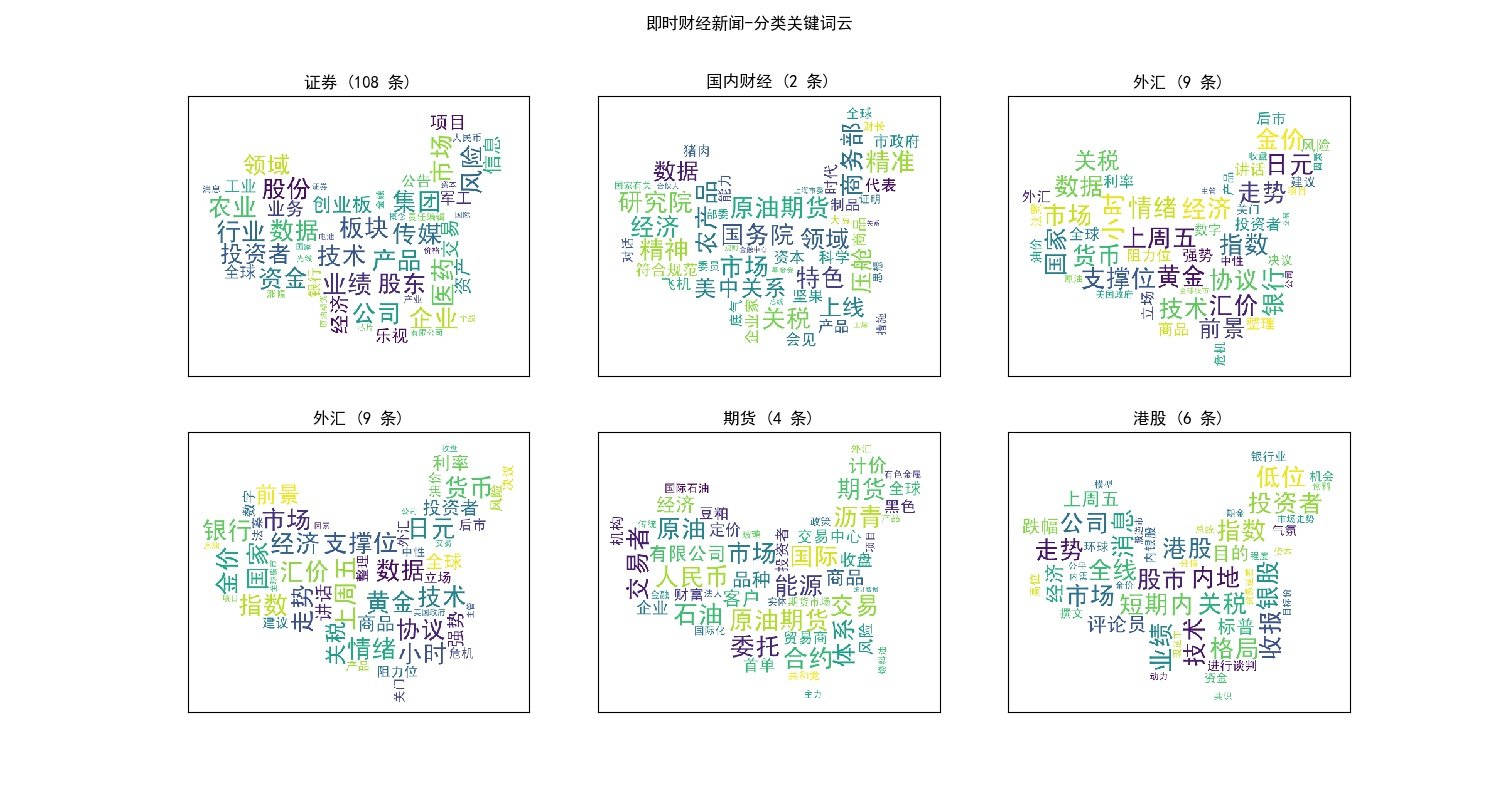
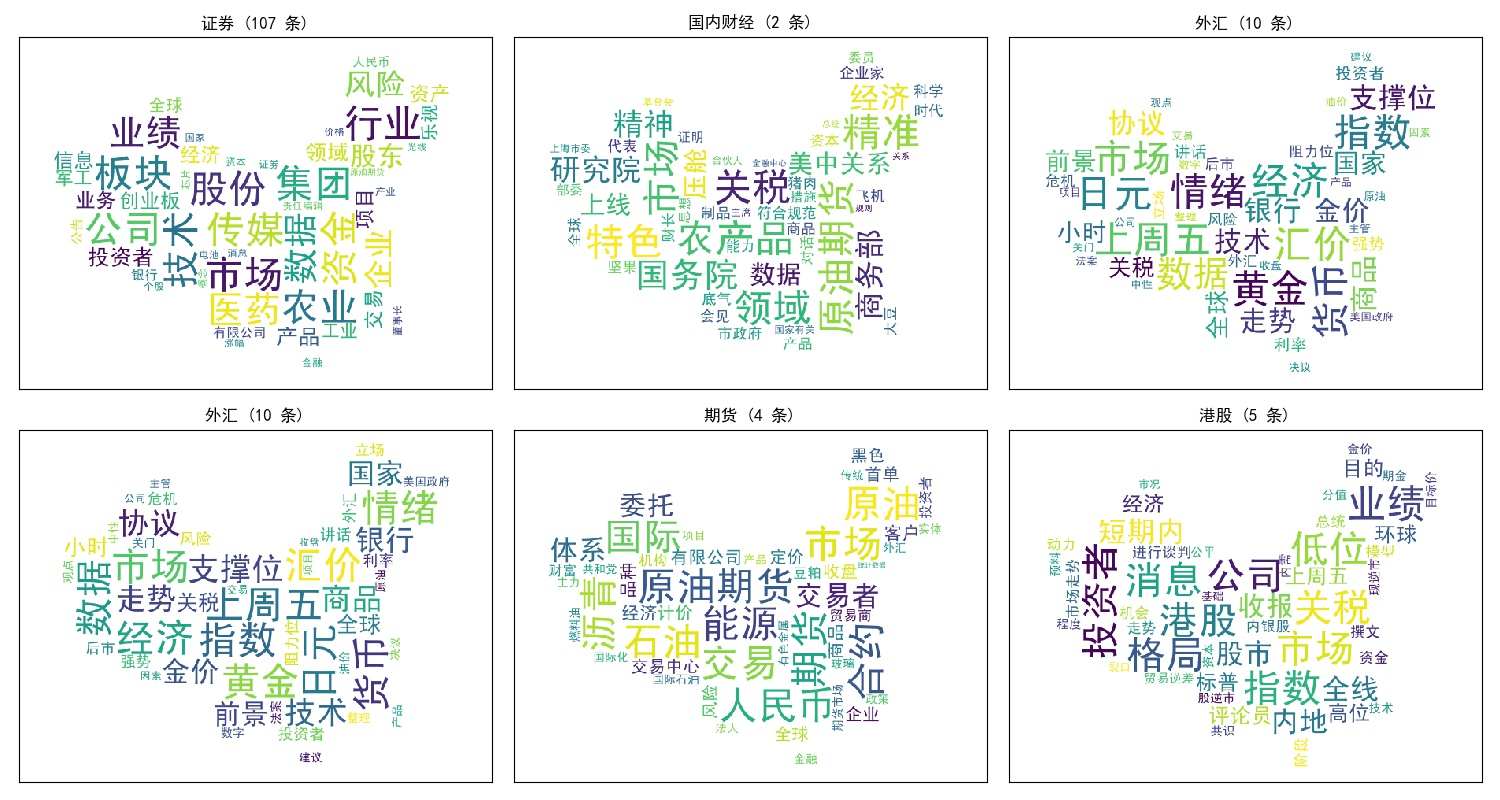
words2 add

diff --git a/words_cloud2.py b/words_cloud2.py
@@ -33,7 +33,7 @@ jieba.analyse.set_stop_words('./data/words_stop1.txt')
 
 # 多子图绘制
 fig, axes = plt.subplots(2, 3, figsize=(15, 8), sharex=True, sharey=True)
-fig.suptitle(u'即时财经新闻-分类关键词云')
+fig.suptitle(u'')
 # 设置标题(中文字体)
 plt.rcParams['font.sans-serif'] = ['SimHei']  # 用来正常显示中文标签
 plt.rcParams['axes.unicode_minus'] = False  # 用来正常显示负号
@@ -41,25 +41,29 @@ plt.rcParams['axes.unicode_minus'] = False  # 用来正常显示负号
 for i in range(2):
     for j in range(3):
         index = i * 2 + j
+        # 当前分类
         classify_name = classify_list[index]
+        # 根据分类筛选得到数据子集
         news_tmp = news[news.classify == classify_name]
-        logcm.print_obj(news_tmp, 'news_tmp')
+        logcm.print_obj(news_tmp.shape, 'shape of ' + classify_name)
 
-        # 标题
+        # 设置标题
         axes[i][j].set_title('%s (%d 条)' % (classify_name, news_tmp.shape[0]))
+        # 如果没有数据，则跳过
         if news_tmp.size == 0:
             continue
 
         # 加载内容URL的内容
         content = ""
         for cont in list(news_tmp.content):
+            # 如果内容为None，则跳过
             if cont is not None:
                 content += cont
 
         # 文字频率排行
         seg = jieba.analyse.textrank(content, topK=50, withWeight=False, allowPOS=('nt', 'n', 'nv'))
         cut_text = " ".join(seg)
-        logcm.print_obj(cut_text, 'cut_text')
+        logcm.print_obj(cut_text, 'cut_text of ' + classify_name)
 
         # 产生词云
         color_mask = imread("./data/words_mask_china.png")  # 读取背景图片
@@ -73,7 +77,10 @@ for i in range(2):
             # 允许最大词汇
             max_words=50,
             # 最大号字体
-            max_font_size=40
+            max_font_size=50,
+            # 图片尺寸
+            width=500,
+            height=400
         )
         word_cloud = cloud.generate(cut_text)
         # 显示词云图片
@@ -82,6 +89,10 @@ for i in range(2):
 # 不显示XY轴刻度
 plt.xticks(())
 plt.yticks(())
+
+# 调整每隔子图之间的距离
+plt.tight_layout()
+
 # 保存图片
 plt.savefig('images/words_cloud2_result.jpg')
 # 显示
